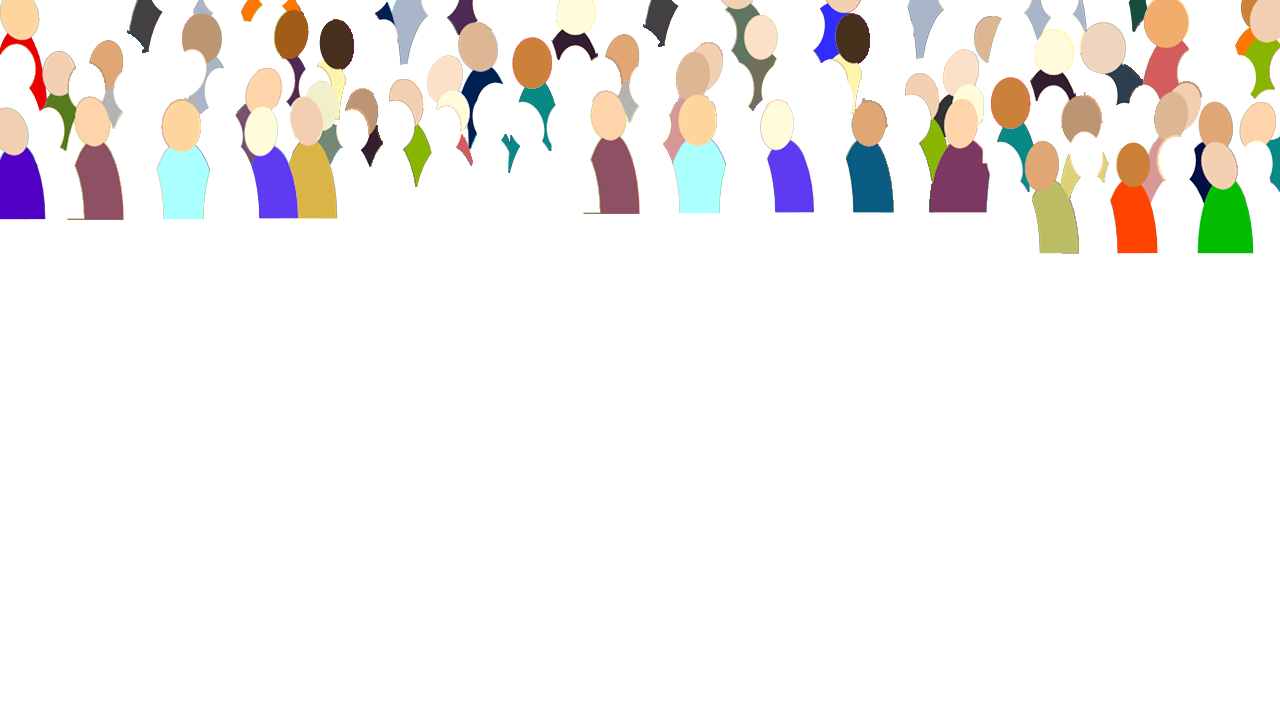
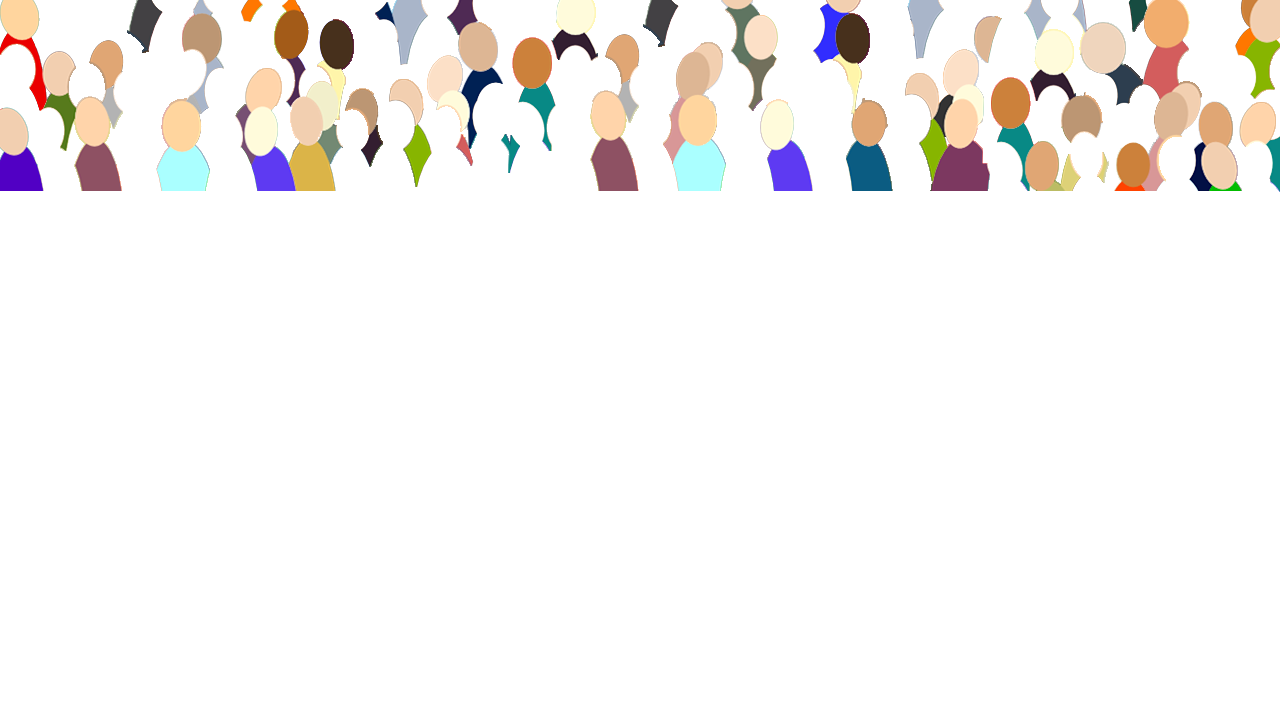
falta so reiniciar o movimento da bola

diff --git a/assets/common/js/animacoes.js b/assets/common/js/animacoes.js
@@ -3,10 +3,21 @@ var v = 0;
 var posX = 610; // variaçao da bola em X
 var posY = 583; // variaçao da bola em Y
 
+var xPes = 0
+var xPes2 = 0
 
+var imagem = new Image() // Criar variavel imagem
+imagem.src = '../assets/common/img/placares.png'; // Atribuir imagem a variavel
+var baliza = new Image() // Criar variavel imagem
+baliza.src = '../assets/common/img/baliza.png'; // Atribuir imagem a variavel
 // Bola
 var bolita = new Image()
 bolita.src = '../assets/common/img/bola.png';
+var pessoas1 = new Image()
+pessoas1.src = '../assets/common/img/pessoas.png';
+var pessoas2 = new Image()
+pessoas2.src = '../assets/common/img/pessoas2.png';
+
 
 // Desenho da Bola
 function desenhar(ponto1, ponto2, ponto3, ponto4, ponto5, ponto6, ponto7, ponto8) {
@@ -44,10 +55,7 @@ function animRedes() {
 
 // Animacao da publicidade
 function animPublicidade() {
-    var imagem = new Image() // Criar variavel imagem
-    imagem.src = '../assets/common/img/placares.png'; // Atribuir imagem a variavel
-    var baliza = new Image() // Criar variavel imagem
-    baliza.src = '../assets/common/img/baliza.png'; // Atribuir imagem a variavel
+
 
     // Canto superior esquerdo - onde vamos desenhar a imagem
     var x = 0;
@@ -58,7 +66,7 @@ function animPublicidade() {
         ctx.clearRect(0, 0, canvas.width, canvas.height) // Apaga o canvas
 
         ctx.drawImage(imagem, x, y) //desenha a imagem
-
+       
         if (x > 0) {                                                    // Se o x for maior que 0
             ctx.drawImage(imagem, 1280 - x, 0, x, 720, 0, 0, x, 720)    // Desenhar o bocado da imagem (1290 - x, 0) Que esta fora do canvas No ponto (0,0)
         }
@@ -67,11 +75,16 @@ function animPublicidade() {
         if (x == 1280) {  //Quando o X chega ao fim da imagem
             x = 0       //volta a ser 0
         }
+        ctx.drawImage(pessoas1, xPes, 0)
+        ctx.drawImage(pessoas2, xPes2, 0)
         ctx.drawImage(baliza, 0, 0) //desenha a imagem
+        ctx.drawImage(bolita, posX, posY)
+        
     }
-    ctx.drawImage(bolita, posX, posY)
-
+  
     
+
+
     // Chamar a função da publicidade
     var timer = window.setInterval(publicidade, 1000 / 60)
 }
@@ -86,4 +99,4 @@ function animPlateia() {
 //animBola();
 //animRedes();
 animPublicidade();
-//animPlateia();
+animPlateia();

diff --git a/assets/common/js/mainGame.js b/assets/common/js/mainGame.js
@@ -69,6 +69,7 @@ function click(e) {
                 resultado();
             } else {
                 defesa = false;
+                animPlateia()
                 resultado();
             }
         }
